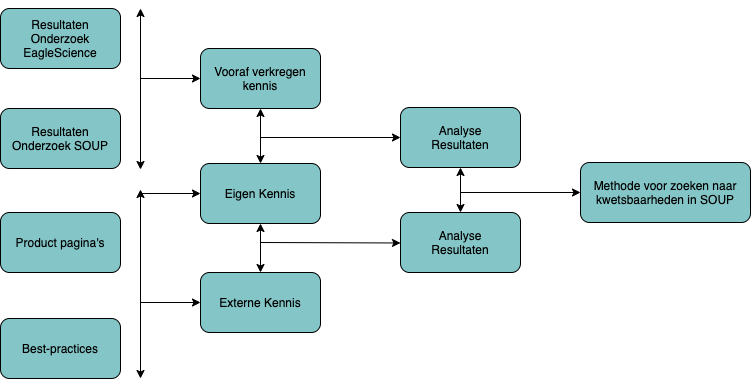
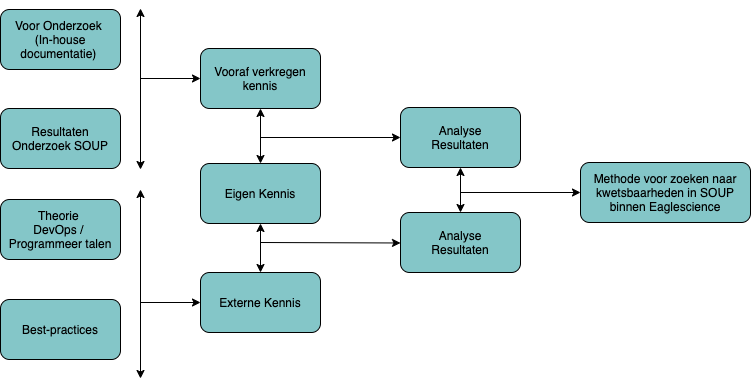
Laatste aanpassingen onderzoeksplan

diff --git a/Chapters/0305-OnderzoekSOUPAnalyse.tex b/Chapters/0305-OnderzoekSOUPAnalyse.tex
@@ -3,7 +3,6 @@
 In het vorige hoofdstuk is duidelijk geworden dat er veel externe bibliotheken worden gebruikt om applicaties te ontwikkelen. Veel bedrijven kunnen niet meer zonder en Eaglescience is hier geen uitzondering op. Het gebruik van externe bibliotheken heeft te veel voordelen op het gebied van besparing(tijd en geld), flexibiliteit, standaardisering om te proberen om deze voordelen te benutten middels intern ontwikkelde projecten. Het gebruik van externe bibliotheken is echter niet zonder gevaren en zonder dat er maatregelen worden genomen kunnen er kwetsbaarheden worden gebruikt om informatie of functionaliteit binnen een applicatie te misbruiken door kwaadwillenden. Er bestaan bronnen zoals de NVD van het NIST waarin deze kwetsbaarheden worden opgeslagen. Het is echter ondoenlijk om deze database met de hand te doorzoeken. Zeker op het moment dat de applicaties dusdanig veel bibliotheken gebruiken dat het volume te groot wordt. Volgens de aanwijzingen vermelding in de OWASP-top10 dienen alle dependencies en de geneste dependencies gecontrolleert te worden.
 
 Dit onderzoek gaat over het zoeken van tooling en methoden om deze analyse automatisch en periodiek te kunnen doen om zo inzichtelijk te maken of er kwetsbaarheden in de uitgerolde applicatie zitten. Met het gebruiken van deze methode hoeft alleen de applicatie nog maar met de hand up-to-date te worden gehouden. Dit laatste is door de complexiteit bewust uit de opdracht gehouden. De onderzoeksvraag is dan ook: "Welke SCA tooling is compabitble met de omgeving van Eaglescience en welke methode kan worden toegepast om deze tooling te gebuiken voor het automatisch analyseren van externe dependencies?". De hoofdvraag werpt de volgende deelvragen op die ieders hieronder worden beantwoord in een eigen paragraaf waarna een in de conclussie de methode wordt aangeboden.
-Deelvragen:
 \begin{itemize}
     \item Welke Werkwijze en Dev-stack gebruikt Eaglescience voor het ontwikkelen van software?
     \item Hoe wordt er op dit moment software uitgerold binnen Eaglescience?
@@ -15,61 +14,147 @@ Deelvragen:
     \item
 \end{itemize}
 
+\section{Werkwijze en Dev-stack binnen Eaglescience}\label{sec:werkwijze-en-dev-stack-binnen-eaglescience}
+Voordat er kan worden onderzocht welke tools en methode er geschikt zijn om een analyse te doen op projecten die Eaglescience in haar beheer heeft dient er gekeken te worden naar de manier waarop zij werkt en met welke middelen projecten worden ontwikkeld. Deze kennis is nodig om de een scope aan te brengen in de zoektoch naar tooling.
 
+\subsection{Werkwijze}\label{subsec:ESwerkwijze}
+Binnen Eaglescience wordt er getracht om "full Scrum" te werken. Dit wil zeggen dat voor ieder project een team van maximaal 9 full-stack developers wordt aangewezen. De sprints duren ongeveer 2 á 3 weken afhankelijk van wensen van de klant en beschikbaarheid van ontwikkelaars. Iedere sprint begint met een refinement waarbij de taken die op de backlog staan worden bekeken en ingeschat door het team. Tijdens de sprint vindt de ontwikkeling middels taken plaats die vervolgens worden gereviewd door een ander teamlid. Aan het einde van de sprint vind er een retrospective plaats en eventueel een demo om de voortgang te demonstreren aan de klant, dit is ook het moment dat het team ziet hoe de applicatie in het algemeen werkt. Dit is ook het moment voor de projectmanager en product owner om de taken die op de back-log staan opnieuw te prioriseren waarbij in de refinement van de volgende sprint de taken mee worden genomen.
 
+\subsection{Dev-stack}\label{subsec:ESdev-stack}
+EagleScience maakt volledige full stack oplossingen. Er wordt dus zowel front-end, backend, en database oplossingen ontwikkelt binnen projecten. Om deze reden wordt er binnen EagleScience gebruik gemaakt van verchillende ontwikkeltalen en tooling om projecten te voltooien. Hieronder staan de belangrijkste vermeld. Deze lijst is bij lange na niet volledig.
 
-De eerste inzet om de opdracht tot een goed einde te brengen is het vinden van tooling om analyses te kunnen doen op externe bibliotheken. Voor nu is het zoeken naar een oplossing voor Scala en Typescript(Node.js) voldoende. In eerdere onderzoeken is naar boven gekomen dat de OWASP zich bezig houd met het veilig houden van geschreven software. Een van de projecten die de OWASp is "Dependency-check". Dit is een Software Composition Tool wat mogelijk maakt om openbaar gemaakte kwetsbaarheden te detecteren door te kijken of er voor dependencies een Common Platform Enumeration(CPE) bestaat. Als deze CPE bestaat kan er gekeken worden of er een CVE voor bestaat en vervolgens worden weergegeven in resultaten. Als geen van beiden bekend zijn wordt er door de tool vanuit gegaan dat er op het moment van checken geen kwetsbaarheid gevonden is. Hoewel dit op het oog een goede tool is om SOUP te analyseren is het in het project ontwikkelde versie niet mogelijk om te scannen op SBT en NPM dependencies. Op de website van het project is echter een link naar een versie die SBT projecten kan analyseren. En een search in de NPM repository blijkt dat er een soortgelijke tool bestaat om NPM pakketten te analyseren.
-
-
-In dit onderzoek worden deze twee tools getest om te achterhalen of deze tools daadwerkelijk geschikt zijn voor de doeleinden van het project. Dit wordt gedaan door de tools te gebruiken in een sandbox project die specifiek voor dit onderzoek is opgezet om de werking van de tool te achterhalen en vervolgens in een groot bestaand project om te kijken of de bevindingen in de sandbox ook te zien zijn in een echte situatie.
-De onderzoeksvraag voor dit onderzoek luid dan ook: "Hoe zijn de gevonden tools te integreren in de methode om dependencies te analyseren en zijn de resultaten bruikbaar voor verder gebruik in de module?" Deze hoofdvraag geeft een aantal deelvragen die in de conclussie beantwoord dienen te zijn.
+\subsubsection{OntwikkelTalen en frameworks}\label{subsec:ontwikkeltalen-en-frameworks}
+Zoals eerder beschreven ontwikkelend EagleScience software full-stack. Er wordt dus gebruik gemaak van zowel talen voor de frontend en backend. Databases worden niet meegenomen in de lijst omdat deze als complete componenten worden gezien en de analyse op SOUP in deze ook niet veel zin heeft.
 \begin{itemize}
-    \item Hoe kan de tool worden gebruikt in huidige projecten?
-    \item Komen de resultaten die gepubliseerd worden vanuit de projecten overeen met elkaar, Zijn de structuren vergelijkbaar?
-    \item Wat doet de tool op de performance van de huidige Jenkins buildstraat, Hoelang heeft de tool nodig om resulaten te genereren?
-    \item Zijn de resulaten voldoende om er daadwerkelijk een raport van te genereren die door de gebruikers gelezen kunnen worden.
-    \item Hoeveel kennis van het project hebben de tools nodig om te functioneren? is de dependency declaratie voldoende of is het gehele project nodig voor de analyse.
+    \item \textbf{Scala 2.XX} De voornamelijkst taal voor het ontwikkelen van de backend binnen EagleScience is Scala. De keuze voor deze taal is de mogelijkheid om functioneel te kunnen programmeren in de Java Virtual Machine(JVM) draait. Dat laatste zorgt ervoor dat bibliotheken die geschreven zijn in talen die ook ondersteunt worden door de JVM gebruikt kunnen worden ongeacht of deze in Scala, Java, Groovy of Kotlin geschreven zijn. Naast dit feit is Scala uiterst geschikt om software te bouwen dat schaalbaar is. Scala heeft de mogelijkheid om mee te groeien met het project. En heeft dus de mogelijkheid om zowel in gezet te worden als script taal dan al niet in Java applicaties als ook de mogelijkheid om production ready applicaties te bouwen die mee schalen in het gebruik. De naam Scala is dan ook een samenraapsel van de woorden scalable en language.
+    EagleScience maakt gebruik van deze taal omdat Scala de mogelijkheid geeft om een applicatie makkelijk uit te breiden als dit nodig is. De ondersteuning voor functioneel programeren geeft het voordeel dat de geschreven code makkelijker te testen valt. (pure)functies hebben de eigenschap deterministisch te zijn wat wil zeggen dat iedere keer als een bepaalde input in een functie komt er altijd dezelfde output verwacht kan worden. Deze eigenschap maakt het mogelijk om applicaties sneller en makkelijker te testen. Binnen EagleScience worden er in bijna alle projecten een aantal frameworks/bibliotheken gebruikt die het ontwikkelen van microservice web applicaties in Scala makkelijker maakt:
+    \begin{itemize}
+        \item \textbf{PlayFramework 2.xx} Een web framework voor de ontwikkeling van webapplicaties in Scala we gebruikten het vooral als router voor de verschillende microservices die er achterliggen.
+        \item \textbf{ArchES} is een intern ontwikkeld framework wat de opbouw en de communicatie tussen microservices in scala verbeterd.\ ArchES is geinspireerd op Apache KAFKA en werkt middels hetzelfde pub -> sub principe.
+    \end{itemize}
+\end{itemize}
+Binnen Scala kan er gebruik genaakt worden van enkele buildtools zoals Mavem, gradle en SBT. Binnen EagleScience wordt ABT gebruikt. Veelal omdat dit de defacto tool is voor Scala.
+[NOTE:] uitbreiden met dependency declaraties
+\subsubsection{TypeScript}
+blaat over typescript, node en NPM en hoe dependencies worden gedeclareerd
+
+\subsubsection{Tooling}\label{subsec:tooling}
+Naast ontwikkeltalen gebruikt EagleScience een aantal tools om dagelijkse werkzaamheden te stroomlijnen en software uit te rollen voor de klant. De tools zijn ieder op zijn beurt verantwoordelijk voor een specifieke taak en alle projecten dienen gebruik te maken van deze tools waar gepast. Hoe de tools samenwerken en uitgerold zijn is te zien in figuur~\ref{fig:es-tooling}
+
+\begin{itemize}
+    \item \textbf{Jira} Binnen EagleScience wordt Jira gebruikt om taken binnen projecten te beheren. Hier worden taken aan projecten toegevoegd welke vervolgens in een spring wordt opgenomen. Deze sprints worden ook beheert middels Jira
+    \item \textbf{Confluence}
+    Confluence wordt gebruikt voor het documenteren van de verschillende projecten waar EagleScience aan werkt. Confluence en Jira zijn beiden van Atlassian wat ervoor zorgt dat deze met elkaar kunnen communiceren wat op zijn beurt de documentatie verbeterd. Op dit moment lijkt het erop dat Confluence een end of life heeft on 2023 en dat voor dit systeem een vervanging moet worden gevonden.
+    \item \textbf{GitLab}
+    Gitlab wordt binnen EagleScience gebruikt als Version control systeem. Er is voor gekozen om deze on premise te gebruiken op een server in eigen beheer op locatie. Gitlab biedt naast version control ook andere tooling aan die het mogelijk maken om vanuit gitlab te builden en/of uit te rollen echter wordt dit binnen EagleScience gedaan middels een andere tool genaamd Jenkins.
+    \item \textbf{Jenkins}
+    Jenkins is een open-source automation server wat door Eaglescience gebruikt wordt om projecten te builden, testen, en deployen. Jenkins is gebouwd op een Java omgeving en is daarom uitermate geschikt om met gradle, Maven en SBT projecten om te gaan. Daarnaast kan het middels diverse Shellscripts (Bash, SH, PowerShell) aanverwante taken uitvoeren. Als laatst kan het middels plugins ook uitrollen op cloud omgevingen. Om deze redenenen heeft EagleScience gekozen om Jenkins te gebruiken. In een sectie hieronder wordt uitvoerig uitgewijd over hoe Jenkins binnen EagleScience een project build, test en uitrold.
+\end{itemize}
+%TODO: Nalopen
+\section{Hoe wordt op dit moment software gedeployed?}\label{sec:hoe-wordt-op-dit-moment-software-gedeployed?}
+Zoals hierboven berschreven wordt Jenkins gebruikt om software te deployen naar zowel de productie omgevingen alsook de verschillende development en acceptatie omgevingen.
+Een deploy wordt gedaan op het moment dat er source code naar gitlab gepushed wordt.
+Doormiddel van Tokens in de Commit message kan gestuurd worden waar de build(als deze slaagt) gedeployed wordt bijv: {-all + portal} build en deployed alleen de portal. [ci-skip] zorgt ervoor dat er alleen een push wordt gedaan en geen build wordt gestart.
+De configuratie die Jenkins gebruikt wordt beschreven in een aantal Jenkins files die meegenomen worden de repo. Middels parameters meegegeven in de commit kan er worden beslist of er een build moet plaatsvinden en zo ja waar en welke delen van de applicatie. Op deze manier is er een flexibiliteit voor de ontwikkelaar.
+[NOTE Illustratie maken.....]
+Naast de deploy geeft Jenkins nog een aantal andere waardevolle Artifacts als test/lint rapportages.
+Een build en deploy gaat volgens de onderstaande afbeelding:
+
+\begin{figure}[H]
+    \myfloatalign
+    \includegraphics[width=15cm]{gfx/Screenshot 2021-08-18 Jenkins PipeLine}
+    \caption{Jenkins(Blue Ocean) pipeline}
+    \label{fig:JenkinsPipeLine}
+\end{figure}
+Een Jenkins pipeline werkt in een aantal stappen dat in een .jenkinsFile wordt beschreven.
+Deze jenkinsFile wordt in de determine stap ingelezen en de benodigde stappen op een rij gezet.
+De stappen die worden uitgevoerd zijn:
+\begin{itemize}
+    \item \textbf{determine} Nu wordt bekeken welke stappen er nodig zijn om een succesvolle build en of deploy te kunnen doen./ Aan de hand van een JenkinsFile en tokens in een Commit message wordt hier bekeken welke stappen er moeten worden uitgevoerd om tot een goed einde te komen.
+    \item \textbf{base} In de base stap worden alle Containers voorbereid die nodig zijn om de applicatie te draaien.\ Images worden opgehaald en gedeployed De base stap is een parallel lopende stap waarin in dit geval backend, portal en de app worden voorbereid.
+    \item \textbf{deploy clair} de clair scanner zoekt op kwetsbaarheden binnen containers die zojuist zijn aangemaakt.\ Dit is een extra veiligheid die ervoor zorgt dat de images en container veilig zijn er alleen nog door bibliotheken die gebruikt worden voor ontwikkeling kwetsbaarheden kunnen worden toegevoegd
+    \item \textbf{Up to deploy}
+    in dit geval wordt er voor de backend, portal, en app een parallel process gestart waarin alle drie substappen doorlopen:
+    \begin{itemize}
+        \item \textbf{prepare} Docker containers worden ingesteld, en klaar gezet voor het ontvangen van de services.
+        \item \textbf{builtest} De services worden gebuild en gestest in deze stap.\ Eaglescience heeft een aantal tresholds opgesteld waaraan tests moeten voldoen om deze te analyseren worden de test resultaten vanuit de docker containers gekopieerd naar de Jenkins Store waar Jenkins de waarden kan analyseren als alle tests binnen de resultaten vallen wordt de volgende stap uitgevoerd.
+        \item \textbf{vulnerability scan} Clair scanner scant nu de containers nogmaals maar nu op de gebruikte software.\ Als clair iets vind dat eaglescience als verdacht acht dan wordt de build gestaakt.
+    \end{itemize}
+    \item \textbf{PostBuild(check)}
+    Alle bevindingen worden hier gecheckt mocht er iets mis zijn wordt er wederom afgebroken en is de build gefaald en kan er dus niet een deploy plaatsvinden.
+    \item \textbf{Deploy \& Upload}
+    in dit geval wordt de deploy niet uitgevoerd.\ Deze stap zorgt ervoor dat de gebouwde containers worden overgedragen naar Azure.\ Iedere container heeft wederom zijn eigen stappen.
+    \item \textbf{End}
+    Einde van de PipeLine Jenkins geeft de workers die het project heeft gebruikt weer vrij.
 \end{itemize}
 
 
-\section{methode}
-Om de bovenstaande deelvragen te beantwoorden is er gekozen om in drie situaties te testen. Iedere situatie wordt opgezet voor zowel de SBT(Scala) tools als die voor NPM(TypeScript).
+
+
+
+
+%Todo: Toevoegen aan de conclusie van het hoofdstuk
+\section{Conclussie}\label{sec:ESconclussie}
+Binnen EagleScience wordt er gewerkt middels de SCRUM methode om software te ontwikkelen. Waarbij Jira en Confluence worden gebruikt voor de documentatie van de projecten. Het zou voor de hand kunnen liggen om informatie over de SOUP analyses in Confluence op te slaan zodat er mee gelift kan worden op dit systeem. Echter doordat de end of life van Confluence is aangekondigd dient er een alternatief worden gezocht. Welke al in de opdracht is meegenomen.
+
+EagleScience ontwikkeld haar projecten over het algemeen in Scala en TypeScript met enkele daarbij behorende (build) tooling en wel SBT voor Scala en NPM voor node projecten. Het is dus noodzaak om voor deze twee tools en methode te vinden waarmee SOUP analyses gedaan kan worden. Daarnaast Jenkins de ideale mogelijkheid om of informatie te winnen over de staat van projecten die op dat moment uitgerold zijn. Dit kan zijn door de nog te onderzoeken methode direct door Jenkins te laten uitvoeren over door de dependency declaraties van projecten op te slaan in een omgeving waar mee extern de analyse kan woden uitvoerd.
+
+\section{Passende SCA tooling en Methode om SOUP-analyses binnen Eaglescience uit te voeren}\label{sec:sca-tooling}
+In de opdracht (zie hoofstuk~\ref{ch:opdracht}) staat vermeld dat de te ontwikkelen module eenvoudig gebruikt dient te worden binnen de bestaande CI/CD Pipeline en dat de resultaten zichtbaar moeten zijn in de huidige portal. [NOTE: MEER REDENENEN?] Om deze redenen moet er dus een tool gevonden worden die makkelijk te intgreren is in de huidige pipeline welke resultaten geeft die vervolgens te verwerken is tot een leesbare pagina in de portal. Als we deze stelling ontleden moeten er een aantal zaken worden onderzocht:
+\begin{itemize}
+    \item Welke tooling is er beschikbaar om analyses uit te voeren op zowel SBT als NPM projecten?
+    \item Hoe is het resultaat die uit de tools komen?
+    \item Hoe is de tool te integreren in de hudige pipeline?
+\end{itemize}
+Om deze vragen te beantwoorden moet er eerst een geschikte tool gevonden worden die met zowel SBT als NPM projecten overweg kan en bij voorkeur beide in een soortgelijk format(JSON, CSV, XML) een rapport kunnen genereren. Vervolgens dient er gekeken te worden naar hoe de geselecteerde tools een resultaat bouwen, hoe deze eruit ziet en in welk tijdsbestek het resultaat gegeven kan worden.
+
+\subsection{Tooling: Welke tooling is beschikbaar voor het analyseren van SOUP in projecten}\label{subsec:ESTooling}
+Een google search query geeft veel reaultaat in de vorm van tooling die in te zetten is om soup analyses veel van deze tooling is verkrijgbaar onder licentie, en hebben hun eigen interface waarmee resultaten kunnen worden ingezien. Dit betekent dat er nog een tool in de dev-stack toegevoegd gaat worden. Een voordeel van deze tools is dat er niet alleen gekeken wordt naar kwetsbaarheden in externe bibliotheken maar ook naar code quality binnen eigen geschreven code. Deze tooling is beschikbaar voor de meest voorkomende talen zoals C#, Java en Javascript. Echter voor Scala en met name een SBT project is geen out-of-the-box ondersteuning, moet deze geleverd worden middels een plug-in die dan al niet tegen betaling kan worden meegeleverd.
+
+Een probleem die er bestaat is dat de taal Scala niet zo breedt wordt gedragen als C#, Python, Java(script) tooling die hier
+ In eerdere onderzoeken is naar boven gekomen dat de OWASP zich bezig houd met het veilig houden van geschreven software. Een van de projecten die de OWASp is "Dependency-check". Dit is een Software Composition Tool wat mogelijk maakt om openbaar gemaakte kwetsbaarheden te detecteren door te kijken of er voor dependencies een Common Platform Enumeration(CPE) bestaat. Als deze CPE bestaat kan er gekeken worden of er een CVE voor bestaat en vervolgens worden weergegeven in resultaten. Als geen van beiden bekend zijn wordt er door de tool vanuit gegaan dat er op het moment van checken geen kwetsbaarheid gevonden is. Hoewel dit op het oog een goede tool is om SOUP te analyseren is het in het project ontwikkelde versie niet mogelijk om te scannen op SBT en NPM dependencies. Op de website van het project is echter een link naar een versie die SBT projecten kan analyseren. En een search in de NPM repository blijkt dat er een soortgelijke tool bestaat om NPM pakketten te analyseren.
+
+Een alternatief mochten de tools niet werken zoals verwacht om zelf op basis van de Dependency-check een plugin te schrijven die het mogelijk maakt om dependencies te analyseren. Echter zou dit extra tijd en dus geld kosten om dit te ontwikkelen.
+
+%https://github.com/etnetera/owasp-dependency-check for Node.js /NPM
+%https://github.com/albuch/sbt-dependency-check for SBT
+%
+%https://github.com/eliasgranderubio/dagda niet zelfde als OWASP maar wellicht usefull
+
+\subsubsection{Testen van Tools}
+Het lijkt dus voor de hand te liggen dat zowel de OWASP-dependency-Check(NPM) en de SBT-dependency-check verantwoorde keuzes zijn om verder te onderzoeken. Voor dat er overgegaan wordt tot implementatie van de tools dienen deze eerst worden onderzocht op bruikbaarheid om dit te realiseren zijn de volgende scenario's opgesteld die ieder een aspect van de tooling belichten:
+
 \begin{enumerate}
-    \item \textbf{sandbox omgeving} Dit is een omgeving waarbij een standaard project wordt opgezet met alleen de basis logica om het project te kunnen draaien. In het geval van Scala zal dit een playframework project zijn met daarin enkele database dependencies. Voor NPM zal dit een Angular Applicatie zijn met een UI framework.
-    \item \textbf{Bestaand Eaglescience Project}. Een project wat zowel een SBT-project bevat als een NPM(node.js) Project bevat.
-    \item \textbf{ALleen de dependency declaraties} In het geval van SBT is dit dus de build.sbt en voor NPM is dit  een package.json en wellicht ook de package.json.lock.
+    \item \textbf{sandbox omgeving} Dit is een omgeving waarbij een standaard project wordt opgezet met alleen de basis logica om het project te kunnen draaien. In het geval van Scala zal dit een playframework project zijn met daarin enkele database dependencies. Voor NPM zal dit een Angular Applicatie zijn met een UI-framework. Er dienen bewust dependencies gekozen te worden waarvan zeker is dat er kwetsbaarheden in zitten. Door de resultaten te vergelijken kan worden beslist hoe deze kunnen worden verwerkt in een weergave die in de portal toonbaar is.
+    \item \textbf{Bestaand Eaglescience Project}. Een project wat zowel een SBT-project bevat als een NPM(node.js) Project bevat. Dit "real-life"Scenario moet uitwijzen in welke tijd er een analyse gedaan kan worden. Dit is van belang om te zien of er een oponthoud is in de build ( duren nu al langer dan gewenst en iedere toevoeging is dus eigenlijk teveel)
+    \item \textbf{ALleen de dependency declaraties} In het geval van SBT is dit dus de build.sbt en voor NPM is dit  een package.json en wellicht ook de package.json.lock. Mocht het "telang" duren om een analyse is de buildstraat te doen geeft dit resultaat inzicht of er een mogelijkheid is om op basis van alleen de dependency declaratie een analyse te doen. Met ald doel om de analyse uitgesteld te kunnen doen zodat de buildstraat hier niet extra mee gemoeid is.
 \end{enumerate}
 
-\section{Sandbox}
-Het doel van deze test is om te kijken of de tooling überhaubt werkt en dat er bruikbare resultaten komen. De InteliJ wizards zijn gebruikt om een basis project op te zetten waar vervolgens volgens de documentatie de tooling is geimplementeerd.
+\textbf{sandbox} uitwijden over hoe sandbox opgezet wordt belangrijke instellingen, resultaten gegenereerd uit de tooling.
 
-Het resultaat is:
+\textbf{bestaand Eaglescience project} Uitwijden over hoe de resulaten zijn binnen een bestaand project en wat de timing is.
 
-De gegenereerde JSON files zijn in opmaak identiek dus er kanmakkelijk een plugin geschreven worden die beide files in de database kan zetten
-\section{}
-
-https://github.com/etnetera/owasp-dependency-check for Node.js /NPM
-https://github.com/albuch/sbt-dependency-check for SBT
-
-https://github.com/eliasgranderubio/dagda niet zelfde als OWASP maar wellicht usefull
+\textbf{alleen dependency declarartie} methode en resultaten van deze test..
 
 
-Dit hoofdstuk geeft het onderzoek weer naar tools die binnen Eaglescience ingezet kunnen worden voor het analyseren van de dependencies. De hoofdvraag in dit onderzoek is dan ook: "Welke tools kunnen er ingezet worden om binnen de dev-stack van Eaglescience een analyse te doen op kwetsbaarheden in externe biblotheken?" Om deze vraag te kunnen beantwoorden zijn de volgende deelvragen opgesteld die samen een conclussie opleveren die gebruikt kan worden in het ontwerp van de module.
+\textbf{REsultaat vsn de tests en conclusie over het gebruik van de tooling in de een methode}
 
 
 
-\section{Conclusie}\label{sec:conclusie}
-De twee tools draaien beiden op de zelfde engine. wat er vervolgens voor zorgt dat er voor beide tools nagenoeg de zelfde output is. Echter door de complexiteit van de projecten die uitgerold worden is voor de SBT tool veel werk om alle dependencie te analyseren wat niet te goed komt in de build tijd. op basis van dit gegeven is er voor gekozen om later een analyse uit te voeren op de dependencies en de pipeline alleen de gebruikte dependencies en hun versies te borgen in een snapshot in de database en deze snapshots periodiek te analyseren op kwetsbaarheden. Het voordeel van deze manier is naast dat het minder tijd kost in de build pipeline. we de analyse kunnen uitvoeren op ieder gewenst moment en dus ook in de nachtelijke uren wanneer de servers niet de druk hebben die ze overdag hebben. Voor het ontwerp moet er dan ook een manier gevonden worden om snapshots op te slaan waarin minimaal de volgende attributen zijn vastgelegd:
-\begin{itemize}
-    \item \textbf{timestamp:} De datum en tijd wanneer de snapshot is gemaakt
-    \item \textbf{GitHash:} De Hash van de commit die de build heeft getriggered
-    \item \textbf{projectName:} Naam van het project waar de snapshot voor is gemaakt
-    \item \textbf{omgeving:} Op welke omgeving werdt er gebuild toen de snapshot is gemaakt
-    \item \textbf{projectType:} Is het een SBT of NPM project ( later uit te breiden met een MAVEN en bijv. NUGET)
-    \item \textbf{dependencyList:} Lijst van de gevonden dependencies en hun versies
-    \item \textbf{analysed:} Boolean om aan te geven of de snapshot al is geannalyseerd.
-\end{itemize}
+\subsection{Methode voor extractie, verwerken en het publiseren van de resultaten gevonden in de projecten van EagleScience}\label{sec:methodeSOUPES}
 
-Voorhet maken van de snapshots moeten er in de jenkins pipeline een mechaniek worden geplaatst die de gevonden attributen kan opslaan in een database voor later gebruik.
-
-Een bijkomend voordeel van deze manier van werken is dat er een historiek onstaat in de gebruikte versies welke als bewijsvoering kan dienen bij incidenten.
+%\section{Conclusie}\label{sec:conclusie}
+%De twee tools draaien beiden op de zelfde engine. wat er vervolgens voor zorgt dat er voor beide tools nagenoeg de zelfde output is. Echter door de complexiteit van de projecten die uitgerold worden is voor de SBT tool veel werk om alle dependencie te analyseren wat niet te goed komt in de build tijd. op basis van dit gegeven is er voor gekozen om later een analyse uit te voeren op de dependencies en de pipeline alleen de gebruikte dependencies en hun versies te borgen in een snapshot in de database en deze snapshots periodiek te analyseren op kwetsbaarheden. Het voordeel van deze manier is naast dat het minder tijd kost in de build pipeline. we de analyse kunnen uitvoeren op ieder gewenst moment en dus ook in de nachtelijke uren wanneer de servers niet de druk hebben die ze overdag hebben. Voor het ontwerp moet er dan ook een manier gevonden worden om snapshots op te slaan waarin minimaal de volgende attributen zijn vastgelegd:
+%\begin{itemize}
+%    \item \textbf{timestamp:} De datum en tijd wanneer de snapshot is gemaakt
+%    \item \textbf{GitHash:} De Hash van de commit die de build heeft getriggered
+%    \item \textbf{projectName:} Naam van het project waar de snapshot voor is gemaakt
+%    \item \textbf{omgeving:} Op welke omgeving werdt er gebuild toen de snapshot is gemaakt
+%    \item \textbf{projectType:} Is het een SBT of NPM project ( later uit te breiden met een MAVEN en bijv. NUGET)
+%    \item \textbf{dependencyList:} Lijst van de gevonden dependencies en hun versies
+%    \item \textbf{analysed:} Boolean om aan te geven of de snapshot al is geannalyseerd.
+%\end{itemize}
+%
+%Voorhet maken van de snapshots moeten er in de jenkins pipeline een mechaniek worden geplaatst die de gevonden attributen kan opslaan in een database voor later gebruik.
+%
+%Een bijkomend voordeel van deze manier van werken is dat er een historiek onstaat in de gebruikte versies welke als bewijsvoering kan dienen bij incidenten.

diff --git a/Chapters/0301-OnderzoeksPlan.tex b/Chapters/0301-OnderzoeksPlan.tex
@@ -52,7 +52,7 @@ Zoals te zien is in figuur~\ref{fig:StakeholderAnalyse1} is hebben alle stakehol
 Het theoretisch kader waarmee wordt gewerkt bestaat uit twee delen. Het eerste deel omvat theorie over externe bibliotheken. Het richt zich op het gebruik hiervan en de potentiële gevaren en methoden om deze bibliotheken te analyseren. De geselecteerde bronnen zijn:
 \begin{itemize}
     \item \textbf{OWASP top 10 (https://owasp.org/Top10/)} De OWASP Top-10 is als uitgangspunt gekozen omdat de inhoud van dit document binnen Eaglescience geldt als aandachtspunt voor het ontwikkelen van veilige software. De basis voor dit onderzoek wordt beschreven in punt "A06:2021-Vulnerable and Outdated Components". Hier wordt beschreven welke gevaren er potentieel dreigen als op dit punt niets gedaan wordt.
-    \item \textbf{Detail pagina OWASP A06:2021(https://owasp.org/Top10/A06\_2021-Vulnerable\_and\_Outdated\_Components/)} Op deze pagina zijn details te vinden over item A06:2021 waaronder een beschrijving, hoe het te voorkomen is en een aantal voorbeeld scenario's waarbij een aanval wordt geillustreerd.
+    \item \textbf{Detail pagina OWASP A06:2021\\(https://owasp.org/Top10/A06\_2021-Vulnerable\_and\_Outdated\_Components/)} Op deze pagina zijn details te vinden over item A06:2021 waaronder een beschrijving, hoe het te voorkomen is en een aantal voorbeeld scenario's waarbij een aanval wordt geillustreerd.
     \item \textbf{OWASP dependency-check (https://owasp.org/www-project-dependency-check/)} Pagina over het project binnen de OWASP voor het analyseren van componenten in applicaties.
     \item \textbf{Justifying the use of software of uncertain pedigree (SOUP) in safety-related applications} P.G.\ Bishop, R.E.\ Bloomfield and P.K.D.\  Froome for Adelard 2001. Hoewel dit document verouderd lijkt staat er wel degelijk interessante informatie over waarom je SOUP zou gebruiken en hoe je de risico's kan verminderen.
     \item \textbf{Backstabber’s Knife Collection: A Review of Open Source Software Supply Chain Attacks} Marc Ohm, Henrik Plate, Arnold Sykosch, and Michael Meier: 2020: Dit artikel bevat informatie over een mogelijke vorm van aanvallen die middels SOUP uitgevoerd zouden kunnen worden. Daarnaast geeft het artikel inzicht in hoe de onderzoekers packages voor NPM, Python, en Ruby hebben onderzocht op kwetsbaarheden.
@@ -98,7 +98,7 @@ In figuur\ref{fig:OnderzoeksModel} is te zien hoe de twee delen met elkaar in re
 \subsection{Scope}\label{subsec:scope}
 Het domein softwareveiligheid is op het moment van schrijven een 'hot-topic', en zeer breed. Om deze reden is er gekozen om dit onderzoek te beperken tot het veiliger maken van software middels het analyseren en beschikbaar stellen van informatie over externe bibliotheken. Daarnaast zullen alleen de technologiën die compatibel zijn met de werkwijze van Eaglescience mee worden genomen. Daarnaast is de opdracht\ref{ch:opdracht} zoals deze is gegeven door de CTO van Eaglescience de leidraad voor de scope van het onderzoek.
 
-\subsection{Onderzoeken}\label{subsubsec:onderzoeken}
+\subsection{Onderzoeks strategie}\label{subsec:onderzoeks-strategie}
 Zoals hierboven is aangegeven zullen er een tweetal onderzoeken worden uitgevoerd. De conclusie van het eerste onderzoek zal dienen als input voor het tweede onderzoek.
 
 %\newpage %TODO: quickfix om volgorde lijkheid te veranderen voor figuren...
@@ -133,20 +133,6 @@ Als er een selectie is gemaakt voor een tool dient deze in een kleine testopstel
     \label{fig:OnderzoeksModelSOUPmethode}
 \end{figure}
 
-% TODO Toevoegen figuur aan figuur (onderzoeksmodellen samenvoegen)
-\begin{figure}[htbp]
-    \myfloatalign
-    \includegraphics[width=10cm]{gfx/OnderzoeksmodelES}
-    \caption{Onderzoeksmodel Eaglescience}
-    \label{fig:OnderzoeksModelEaglescience}
-\end{figure}
-
-% TODO MAAIKE
-\subsection{strategie}\label{subsec:opstrategie}
-Om de twee onderzoeken die hierboven beschreven zijn goed uit te kunnen voeren zijn er de volgende strategieen bedacht die ervoor zorgen dat er een betrouwbaar resultaat is waar verder mee gewerkt kan worden.
-Voor het onderzoek binnen de huidige situatie binnen Eaglescience wordt interne documentatie geraadpleegd aangevuld met vraag gesprekken met collega's die met het onderwerp te maken hebben. Deze gespreken zullen worden gehouden in delen gezien de manier waarop er binnen Eaglescience gewerkt wordt. (heeft te maken met het aantal niet declarabele uren die ieder persoon wel of niet heeft). Het onderzoek naar de theorie van SOUP analyses wordt uitgevoerd middels een deskresearch waarbij in literatuur gezocht wordt naar methoden om de analyse te doen. Daarnaast wordt er een selectie gemaakt in tools die al ontwikkeld zijn die bruikbaar zijn voor het einddoel van de opdracht. In het laatste onderzoek wordt gekeken naar een method die past bij de huidige manier van werken binnen Eaglescience, en de tools die gevonden zijn. Ook wordt er een ontwerp gemaakt hoe de methode eruit komt te zien er welke data dit oplevert waarna er een module ontwikkeld kan worden die deze data inzichtelijk maakt voor de stakeholders.
-
-
 \section{planning}\label{sec:planning}
 Om tijdig tot resultaten te komen is de volgende planning opgesteld.
 
@@ -180,8 +166,8 @@ Er zal een ontwerp worden gemaakt waarin vast gelegd is welke requirements er be
 \textit{wellicht nog toevoegen als resultaten: blokdiagram van oplossing/architectuur; sequence diagram om te komen van analyse tot rapportage (er is een handig tooltje om deze diagrammen te tekenen: https://bramp.github.io/js-sequence-diagrams/)}
 \textbf{Resultaat:} Eerste ontwerp in de vorm van een datamodel, blokdiagram van architectuur voor de oplossing, als ook een sequence diagram om van analyse tot rapportage te komen.
 
-\textit{4.4: Gebruik hier of de template ontwikkel omgeving voor (aparte branch/taak); of de portal ontwikkelomgeving
-4.4: Voeg rij resultaat toe: klaar voor review of gereviewde}
+%\textit{4.4: Gebruik hier of de template ontwikkel omgeving voor (aparte branch/taak); of de portal ontwikkelomgeving
+%4.4: Voeg rij resultaat toe: klaar voor review of gereviewde}
 
 \subsection{Implementatie en Testen \textbf{november 2021 - januari 2022 }}\label{subsec:implementatie-en-testen}
 Om te kunnen beginnen aan de implementatie is er een ontwikkel/ test omgeving nodig die het mogelijk maakt om zonder invloed op de dagelijkse werkzaamheden van Eaglescience een module te kunnen ontwikkelen. Deze zal eerst worden opgezet. Als test projecten zullen snapshots worden gebruikt van de daadwerkelijke projecten dit om een zo accuraat mogelijke test omgeving te hebben. Zoals in de opdracht beschreven dient de nieuwe module een onderdeel te zijn van de bestaande portal. Er zal dan ook direct samen worden gewerkt met het team die daar op het moment mee aan het ontwikkelen is. Tijdens de implementatie zal er ook worden gedocumenteerd wordt hoe de module werkt en welke procedures hier in worden gevolgd. Dit document biedt ontwikkelaars de mogelijkheid om dit door te nemen als on-boarding en referentie.

diff --git a/Chapters/0304-ExterneBbibliothekenenGevaar.tex b/Chapters/0304-ExterneBbibliothekenenGevaar.tex
@@ -29,6 +29,10 @@ Bibliotheken zorgen over het algemeen ervoor dat herhalende taken die applicatie
 \section{Wat zijn potienteel gevaren die het gebruik van externe bibliotheken kunnen introduceren?}\label{sec:wat-zijn-potienteel-gevaren-die-het-gebruik-van-externe-bibliotheken-kunnen-introduceren?}
 Hoewel de voordelen die hierboven beschreven zijn enorm kunnen zijn voor bedrijven die software ontwikkelen. Zijn er ook een aantal nadelen te benoemen waarvan de grootste wel is dat er potentieel kwetsbaarheden kunnen worden geintroduceert in de applicatie die niet direct kunnen worden gezien door ontwikkelaars die de bibliotheken gebruiken. Deze kwetsbaarheden kunnen zich op meerdere manieren manifesteren in de vorm van een "Supply Chain Attack". Waarbij zoals de naam al doet vermoeden er een aanval plaats vindt middels software die zich in de dependencies bevindt deze aanval kan op verschillende manieren plaatsvinden, maar hebben meestal als doel dat er op een één of andere manier data bemachtigd wordt of anders de functionaliteit van de doelapplicatie op een dusdanige manier wordt aangetast dat deze in het voordeel is van de aanvallers. Een probleem met dit soort aanvallen is vaak dat deze lange tijd onopgemerkt kunnen blijven (SolarWinds attack) omdat externe bibliotheken niet vaak worden gecheckt op juistheid. En op het moment dat ze al opgemerkt worden en er een verslag is gemaakt in een Vulnerablitiy database (NIST, NVD, Mitre) Deze ook nog door andere bedrijven die dezelfde bibliotheek met dezelfde versie wordt gebruikt waarbij deze bedrijven ook kwetsbaar zijn. Uit onderzoek van Sonartype blijkt dat een groot deel van de applicaties niet worden bijgewerkt of vaak niet op de juiste manier zodat er altijd een kwetsbaarheid zal blijven bestaan.
 
+
+\section{OWASP}\label{sec:owasp}
+schrijven over wat de OWASP doet en de top 10
+
 \section{Hoe kan er voorkomen worden dat er kwetsbaarheden onstaan in een applicatie die gebruik maakt van externe bibliotheken?}\label{sec:hoe-kan-er-voorkomen-worden-dat-er-kkwetsbaarheden-onstaan-in-een-applicatie-die-gebruik-maakt-van-externe-bibliotheken?}
 Hoewel er veel bedrijven en instanties zich verantwoordelijk voelen, dan al niet voor winst, om het mogelijk te maken om vilige software te ontwikkelen. Bestaat de OWASP puur en alleen om dit te doen op een vrijwillige basis. Zei doen dit door awareness te kweken over het veilig ontwikkelen van software. Eén van de belangrijkste methoden die zij hebben is de OWASP top 10 waarin iedere 5 jaar een lijst wordt gepresenteerd met de meest ktitsiche aspecten voor het ontwikkelen van veilige software. In 2021 stond op plaats A06:2021 een item over Vulnerable and Outdated Components. Een item wat het onderzoek naar een methode en tools kan helpen Volgens dit item is de software kwetsbaar als er aan één van de volgende items kan worden voldaan: (vrij vertaald uit het origineel document https://owasp.org/Top10/A06\_2021-Vulnerable\_and\_Outdated\_Components/)
 \begin{itemize}
@@ -46,3 +50,4 @@ In deze database zijn naast de bevindingen ook remedies indien mogelijk te vinde
 
 
 
+\section{conclussie}

diff --git a/main.tex b/main.tex
@@ -63,15 +63,15 @@
 %	PRE-CONTENT THESIS PAGES
 %----------------------------------------------------------------------------------------
 
-%\include{FrontBackMatter/Titlepage} % Main title page
+\include{FrontBackMatter/Titlepage} % Main title page
 
 %\include{FrontBackMatter/Titleback} % Back of the title page
 
 %\cleardoublepage\include{FrontBackMatter/Dedication} % Dedication page
 
-%\cleardoublepage\include{FrontBackMatter/Foreword} % Uncomment and create a Foreword.tex to include a foreword
+\cleardoublepage\include{FrontBackMatter/Foreword} % Uncomment and create a Foreword.tex to include a foreword
 
-%\cleardoublepage\include{FrontBackMatter/Abstract} % Abstract page
+\cleardoublepage\include{FrontBackMatter/Abstract} % Abstract page
 
 %\cleardoublepage\include{FrontBackMatter/Publications} % Publications from the thesis page
 
@@ -79,7 +79,7 @@
 
     \pagestyle{scrheadings} % Show chapter titles as headings
 
-%    \cleardoublepage\include{FrontBackMatter/Contents} % Contents, list of figures/tables/listings and acronyms
+    \cleardoublepage\include{FrontBackMatter/Contents} % Contents, list of figures/tables/listings and acronyms
 
     \cleardoublepage
 
@@ -94,29 +94,28 @@
 
 % Text on the Part 1 page describing  the content in Part 1
 %Todo: Inleiding en Leeswijzer schrijven
-%    \include{FrontBackMatter/0000-Inleiding}
+   \include{FrontBackMatter/0000-Inleiding}
 
 
     %Opdracht en vooronderzoek
-%    \ctparttext{}
-%    \part{Opdracht (Briefing)}\label{prt:opdracht}
-%    \include{Chapters/0101-Opdrachtgever}
-%    \include{Chapters/0102-Opdracht}
-%    \include{Chapters/0104-opdrachtConclusie}
+    \ctparttext{}
+    \part{Opdracht (Briefing)}\label{prt:opdracht}
+    \include{Chapters/0101-Opdrachtgever}
+    \include{Chapters/0102-Opdracht}
+    \include{Chapters/0104-opdrachtConclusie}
 
     % onderzoek
     \ctparttext{}
     \part{Onderzoek}\label{prt:Onderzoek}
-%    \include{Chapters/0300-OnderzoekInl}
+    \include{Chapters/0300-OnderzoekInl}
     \include{Chapters/0301-OnderzoeksPlan}
-%    \include{Chapters/0302-OnderzoekMethode}
 %    \include{Chapters/0303-OnderzoekEaglescience}
     \include{Chapters/0304-ExterneBbibliothekenenGevaar}
     \include{Chapters/0305-OnderzoekSOUPAnalyse}
 %    \include{Chapters/0306-methodeBorgingDepInfo}
-%    \include{Chapters/0307-OnderzoekConc}
+    \include{Chapters/0307-OnderzoekConc}
 
-    %Ontwerp en implementatie
+%    Ontwerp en implementatie
 %    \ctparttext{}
 %    \part{Ontwikkeling van SOUP module}\label{prt:Implementatie}
 %    \include{Chapters/0400-impInl}
@@ -128,10 +127,8 @@
 %    \include{Chapters/0405-implTesting}
 %    \include{Chapters/0406-implDeploy}
 %    \include{Chapters/0407-implResultaat}
-%
+%%
 %    \ctparttext{}
-%
-%
 %    \part{Conclusie en andere afsluitende dingen}\label{prt:Conclussie}
 %    \include{Chapters/0501-conInl}
 %    \include{Chapters/0502-conclussie}
